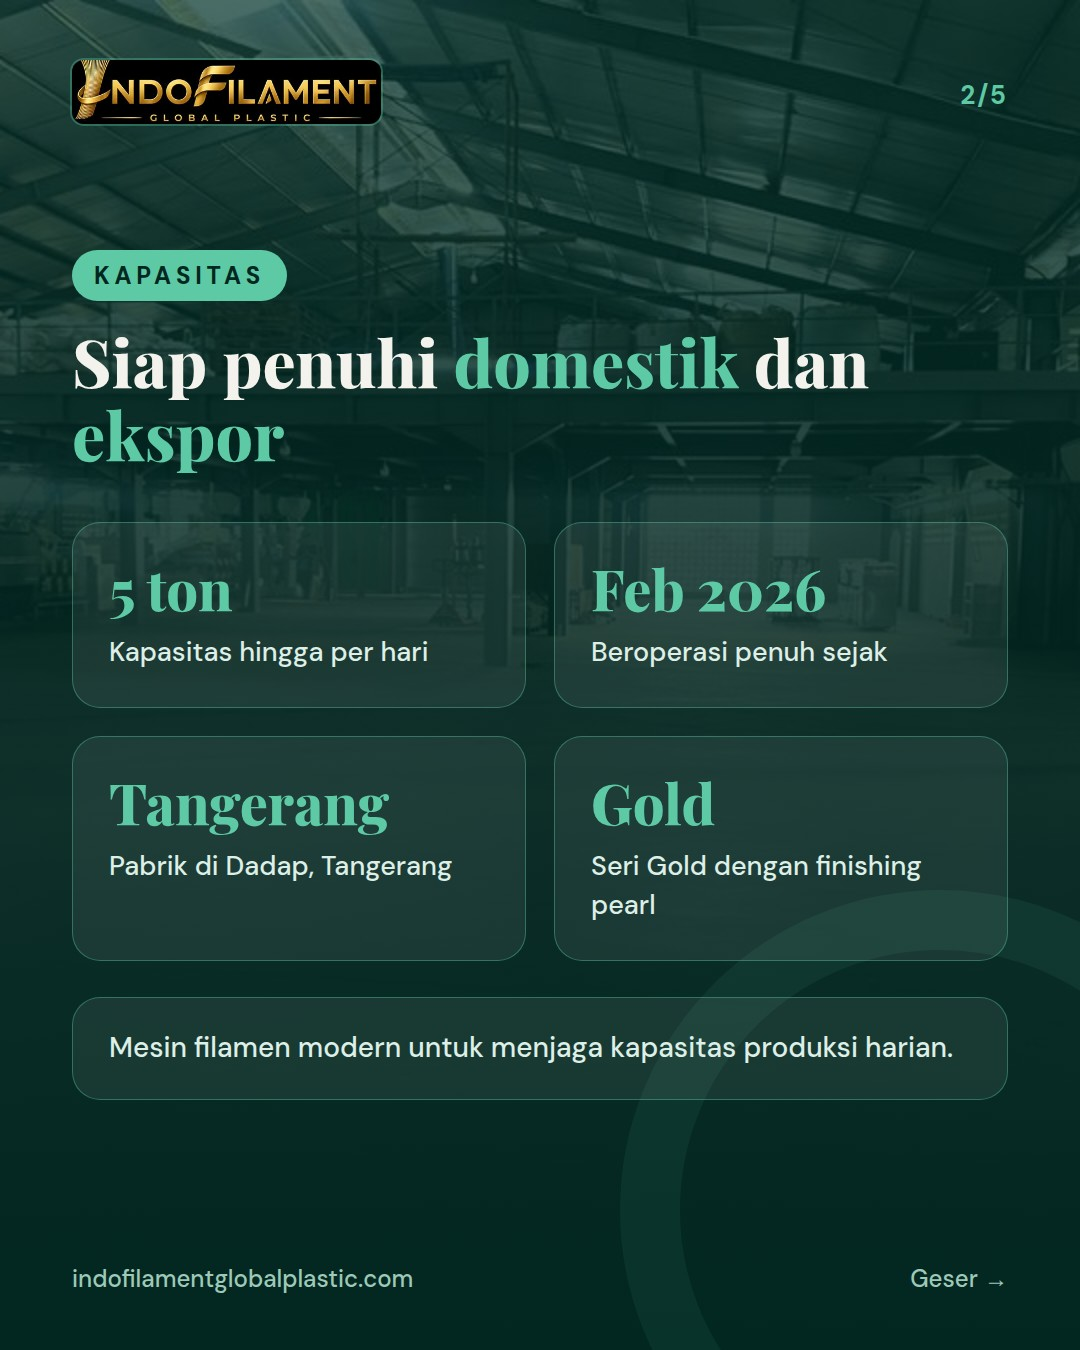
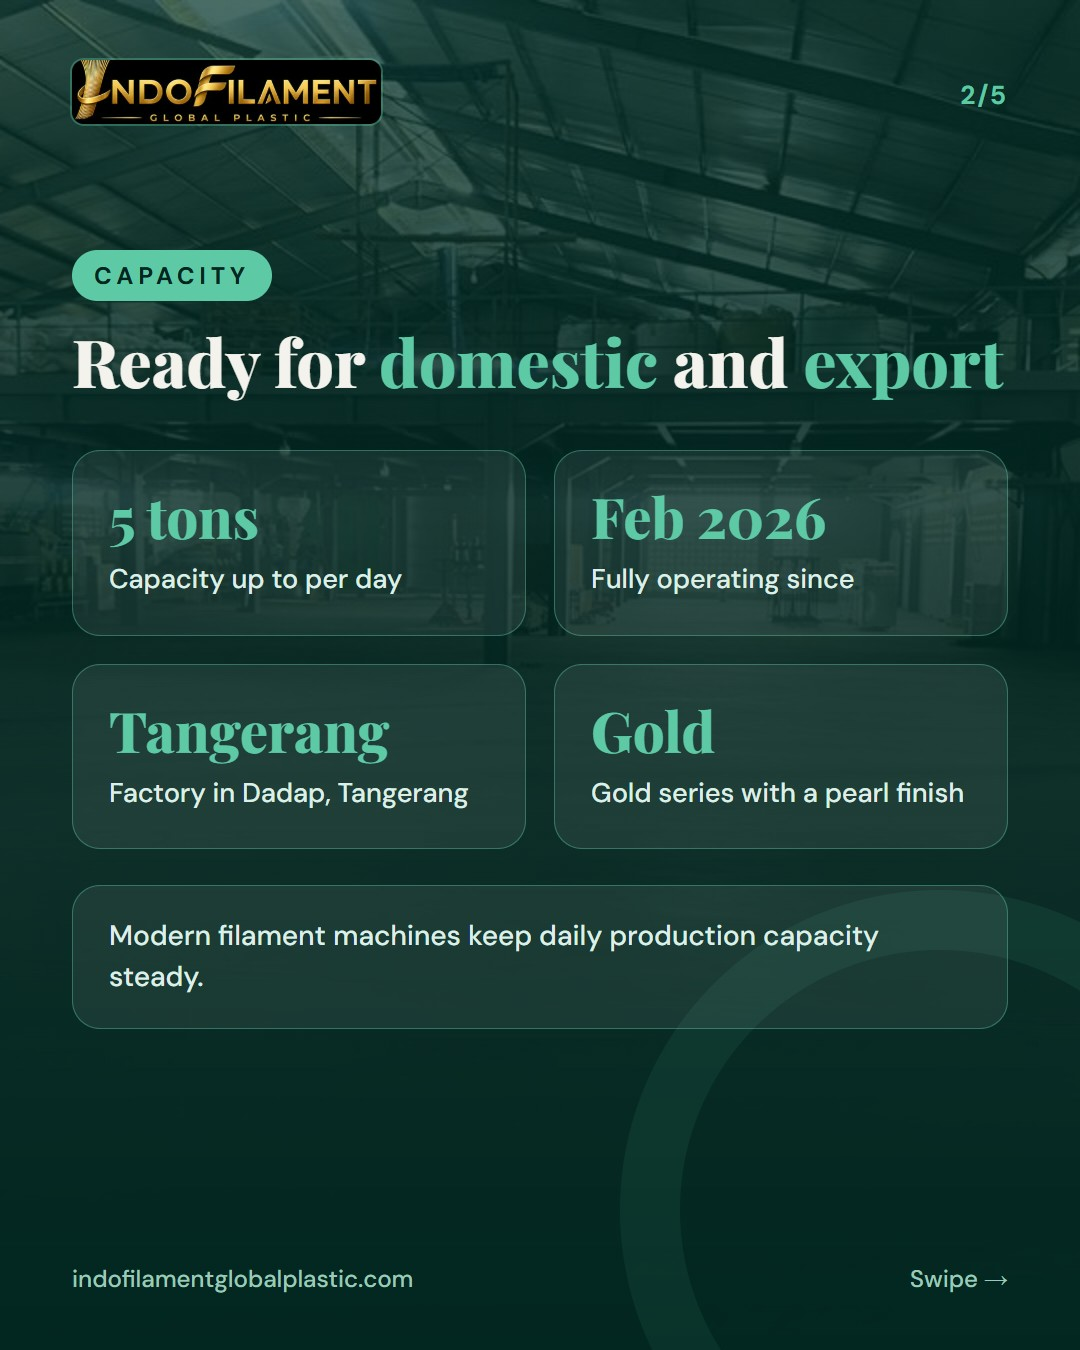
IG: translate post 20261109-1000 to English

diff --git a/ig/20261109-1000/index.html b/ig/20261109-1000/index.html
@@ -1,19 +1,17 @@
 <!doctype html><html lang="id"><head><meta charset="utf-8"><meta name="viewport" content="width=device-width,initial-scale=1"><meta name="robots" content="noindex,nofollow">
 <title>Preview Instagram 20261109-1000</title><style>body{margin:0;background:#111;color:#eee;font:16px/1.5 system-ui,sans-serif}main{max-width:560px;margin:0 auto;padding:16px}img{width:100%;display:block;margin:0 0 12px;border-radius:8px}pre{white-space:pre-wrap;background:#1b1b1b;padding:16px;border-radius:8px;font:15px/1.5 system-ui,sans-serif}</style></head>
-<body><main><h1 style="font-size:20px">Kenapa Indofilament: kapasitas hingga 5 ton per hari, pabrik di Tangerang</h1>
+<body><main><h1 style="font-size:20px">Why Indofilament: capacity of up to 5 tons per day, factory in Tangerang</h1>
 <img src="1.jpg" alt="Slide 1">
 <img src="2.jpg" alt="Slide 2">
 <img src="3.jpg" alt="Slide 3">
 <img src="4.jpg" alt="Slide 4">
 <img src="5.jpg" alt="Slide 5">
-<pre>Kapasitas produksi kami hingga 5 ton per hari, dan semuanya dibuat di pabrik kami di Dadap, Tangerang. 🏭
+<pre>Our production capacity is up to 5 tons per day, and everything is made at our factory in Dadap, Tangerang. 🏭
 
-Indofilament Global Plastic beroperasi penuh sejak Februari 2026 dengan mesin filamen modern. Kami memproduksi bulu sapu dan bulu sikat untuk lantai, WC, piring, cuci, mesin cuci, kuku, rambut, kuas cat, hingga sikat industri. Warna tersedia dari kuning, hijau, biru, pink, sampai seri Gold dengan finishing pearl. Warna lain seperti merah, ungu, oranye, hitam, putih, atau custom juga bisa dipesan.
+Indofilament Global Plastic has been fully operating since February 2026 with modern filament machines. We produce broom and brush bristles for floor, toilet, dish, laundry, washing machine, nail, hair, and paint brushes, up to industrial brushes. Colors range from yellow, green, blue, and pink to the Gold series with a pearl finish. Other colors such as red, purple, orange, black, white, or custom can also be ordered.
 
-Bahan baku kami memakai bahan baku plastik daur ulang yang ramah lingkungan. Untuk kebutuhan OEM dan private label, diameter, panjang, dan kekakuan bisa disesuaikan.
+Our raw material is eco-friendly recycled plastic. For OEM and private label needs, diameter, length, and stiffness can be adjusted.
 
-Tertarik mencoba kualitasnya? Minta sampel via WhatsApp +62 831-6591-3330 atau DM kami. Pabrik kami juga terbuka untuk kunjungan. ✨
+Curious about the quality? Request a sample via WhatsApp +62 831-6591-3330 or DM us. Our factory is also open for visits. ✨
 
-We produce up to 5 tons of nylon filament per day from our Tangerang factory, serving domestic and export markets. Request a sample via WhatsApp or DM.
-
-#bulusapu #bulusikat #filamen #pabriksapu #madeinindonesia #broomfilament #brushfilament #nylonfilament #pabrikTangerang #ramahlingkungan</pre></main></body></html>
+#broomfilament #brushfilament #nylonfilament #madeinindonesia #Tangerang #privatelabel #OEM #recycledmaterials #ecofriendly #broommanufacturer</pre></main></body></html>
